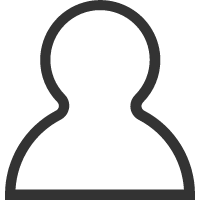
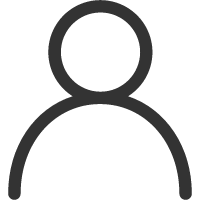
feat: 广场页顶栏城市+排序、活动卡片布局优化、参加活动三点菜单整合
- 广场页：城市定位按钮移至顶栏与排序标签合并一行（📍城市 · 最新 · 距离）
- 广场页：移除筛选面板城市栏，入口统一至顶栏
- 广场页：新增最新发布/距离最近排序标签（可切换/取消）
- ActivityCard：发布时间移至标题行右侧（3小时前）
- ActivityCard：距离标签移至DUPR·费用行右端（分割线上方）
- ActivityCard：整合参加活动三点菜单：未开始→退出，进行中→Toast，已结束→删除记录
- tabbar：更换个人图标（profile.png/profile-active.png）

diff --git a/miniprogram/src/pages/index/index.vue b/miniprogram/src/pages/index/index.vue
@@ -26,6 +26,30 @@
             <image class="capsule-filter-icon" src="/static/icons/shaixuan.png" mode="aspectFit" />
           </view>
         </view>
+        <!-- NOTE: 城市按钮 + 排序标签合并一行：左侧城市可点击切换，右侧排序 -->
+        <view class="sort-tabs">
+          <!-- 城市入口 -->
+          <view class="city-btn" @tap="handleCitySelect">
+            <text class="city-btn-icon">📍</text>
+            <text class="city-btn-name">{{ currentCity || '定位中' }}</text>
+          </view>
+          <view class="sort-tab-divider" />
+          <view
+            class="sort-tab"
+            :class="{ 'sort-tab--active': sortOrder === 'latest' }"
+            @tap="setSortOrder('latest')"
+          >
+            <text class="sort-tab-text">最新发布</text>
+          </view>
+          <view class="sort-tab-divider" />
+          <view
+            class="sort-tab"
+            :class="{ 'sort-tab--active': sortOrder === 'distance' }"
+            @tap="setSortOrder('distance')"
+          >
+            <text class="sort-tab-text">距离最近</text>
+          </view>
+        </view>
       </view>
     </view>
 
@@ -41,15 +65,6 @@
         <!-- 顶部把手 -->
         <view class="filter-sheet-handle" />
 
-        <!-- 城市切换：显示当前城市，点击跳转选择页 -->
-        <view class="filter-section filter-section--city">
-          <text class="filter-section-title">当前城市</text>
-          <view class="filter-city-row" @tap="handleCitySelectFromFilter">
-            <text class="filter-city-icon">📍</text>
-            <text class="filter-city-name">{{ currentCity || '定位中...' }}</text>
-            <text class="filter-city-arrow">❯</text>
-          </view>
-        </view>
 
         <!-- 距离范围 -->
         <view class="filter-section">
@@ -163,6 +178,9 @@ const currentCity = ref('定位中') // 当前城市名称
 const searchKeyword = ref('') // 搜索关键词
 const searchFocused = ref(false) // 搜索框聚焦状态
 const showFilterPanel = ref(false) // 筛选面板显隐
+// NOTE: 排序方式：''=默认（服务器顺序/时间降序），'latest'=最新发布，'distance'=距离最近
+// 初始两个标签均未选中，点击选中，再次点击取消选中恢复默认
+const sortOrder = ref<'latest' | 'distance' | ''>('')
 // NOTE: 当前登录用户 openid，用于判断是否为发起人（显示三点菜单）
 const myOpenId = ref<string | null>(null)
 
@@ -271,14 +289,6 @@ onLoad((options: any) => {
   }
 })
 
-// NOTE: 在筛选面板中切换城市：先关闭面板再跳转城市选择页
-function handleCitySelectFromFilter() {
-  showFilterPanel.value = false
-  // 延迟一帧，避免面板关闭动画与跳转冲突
-  setTimeout(() => {
-    uni.navigateTo({ url: '/pages/city-select/index' })
-  }, 150)
-}
 
 onShow(() => {
   // NOTE: 同步当前用户 openid，用于广场页判断是否为发起人
@@ -535,14 +545,46 @@ function applyFiltersAndSearch() {
     })
   }
 
-  // 5. 按发布时间降序排序
-  filteredList.sort((a, b) => {
-    const timeA = (a as any).createdAt ?? 0
-    const timeB = (b as any).createdAt ?? 0
-    return timeB - timeA
-  })
+  // 5. 排序
+  if (sortOrder.value === 'distance' && location.value?.latitude && location.value?.longitude) {
+    // NOTE: 距离最近：按与用户位置的距离升序；无坐标的活动排在最后
+    const { latitude: uLat, longitude: uLon } = location.value
+    filteredList.sort((a, b) => {
+      const dA = (a.latitude != null && a.longitude != null)
+        ? calculateDistance(uLat, uLon, a.latitude, a.longitude)
+        : Infinity
+      const dB = (b.latitude != null && b.longitude != null)
+        ? calculateDistance(uLat, uLon, b.latitude, b.longitude)
+        : Infinity
+      return dA - dB
+    })
+  } else {
+    // NOTE: 最新发布：按 createdAt 降序
+    filteredList.sort((a, b) => {
+      const timeA = (a as any).createdAt ?? 0
+      const timeB = (b as any).createdAt ?? 0
+      return timeB - timeA
+    })
+  }
 
   activities.value = filteredList
+}
+
+/** 切换排序方式：再次点击同一标签则取消选中，恢复默认顺序 */
+function setSortOrder(order: 'latest' | 'distance') {
+  // NOTE: 再次点击已选中的标签 → 取消选中，恢复默认
+  if (sortOrder.value === order) {
+    sortOrder.value = ''
+    applyFiltersAndSearch()
+    return
+  }
+  // NOTE: 距离排序需要用户位置，若无定位给出友好提示
+  if (order === 'distance' && !location.value?.latitude) {
+    uni.showToast({ title: '获取位置中，请稍候', icon: 'none' })
+    return
+  }
+  sortOrder.value = order
+  applyFiltersAndSearch()
 }
 
 // 搜索输入处理
@@ -857,6 +899,77 @@ onShareTimeline(() => {
 .header-content {
   padding: $ios-spacing-md $ios-spacing-lg;
   padding-top: calc(#{$ios-spacing-md} + env(safe-area-inset-top));
+}
+
+// NOTE: 排序切换标签行：搜索栏下方，左对齐两个 tab
+.sort-tabs {
+  display: flex;
+  align-items: center;
+  margin-top: 10px;
+  gap: 0;
+}
+
+.sort-tab {
+  padding: 4px 0;
+  position: relative;
+  cursor: pointer;
+
+  &--active .sort-tab-text {
+    color: $ios-blue;
+    font-weight: $ios-font-weight-semibold;
+  }
+
+  // NOTE: 选中态下划线
+  &--active::after {
+    content: '';
+    position: absolute;
+    bottom: 0;
+    left: 0;
+    right: 0;
+    height: 2px;
+    background: $ios-blue;
+    border-radius: 1px;
+  }
+}
+
+.sort-tab-text {
+  font-size: 13px;
+  color: $ios-text-secondary;
+  line-height: 1.4;
+}
+
+// 两个 tab 中间竖线分隔
+.sort-tab-divider {
+  width: 1px;
+  height: 12px;
+  background: $ios-separator;
+  margin: 0 12px;
+  flex-shrink: 0;
+}
+
+// NOTE: 城市按钮：左侧定位图标 + 城市名 + 隐式箭头，与排序标签视觉统一
+.city-btn {
+  display: flex;
+  align-items: center;
+  gap: 2px;
+  flex-shrink: 0;
+  cursor: pointer;
+  &:active { opacity: 0.6; }
+}
+
+.city-btn-icon {
+  font-size: 12px;
+  line-height: 1;
+}
+
+.city-btn-name {
+  font-size: 13px;
+  color: $ios-text-secondary;
+  line-height: 1.4;
+  max-width: 60px;
+  overflow: hidden;
+  text-overflow: ellipsis;
+  white-space: nowrap;
 }
 
 // 三段式一体胶囊（全宽）

diff --git a/miniprogram/src/components/ActivityCard.vue b/miniprogram/src/components/ActivityCard.vue
@@ -21,11 +21,11 @@
 
       <!-- 活动信息块（右） -->
       <view class="card-info-block">
-        <!-- 标题（标题文字 + 右侧距离标签） -->
+        <!-- 标题（标题文字 + 右侧发布时间） -->
         <view class="card-title-row">
           <text class="card-title">{{ activity.title }}</text>
-          <!-- NOTE: 仅用户已授权位置且活动有坐标时显示距离 -->
-          <text v-if="props.distanceKm != null" class="card-distance-badge">📍 {{ props.distanceKm }}km</text>
+          <!-- NOTE: 发布时间置于标题右侧，低视觉权重 -->
+          <text v-if="publishedAgo" class="card-published-badge">{{ publishedAgo }}</text>
         </view>
 
         <!-- 时间 + 地点行 -->
@@ -57,6 +57,8 @@
             <image class="info-icon-img" src="/static/icons/feiyongdanju.png" mode="aspectFit" />
             <text class="info-text">{{ feeText }}</text>
           </view>
+          <!-- NOTE: 距离标签置于信息块右下角（分割线上方），与报名决策场景更贴近 -->
+          <text v-if="props.distanceKm != null" class="card-distance-badge">📍 {{ props.distanceKm }}km</text>
         </view>
       </view>
 
@@ -175,18 +177,24 @@ const emit = defineEmits<{
   leave: [activity: Activity]
 }>()
 
-/** 参加者三点菜单：退出活动 */
+/** 参加者三点菜单 */
 function showJoinedMenu() {
-  // NOTE: 已结束：超过结束时间（或无 endTime 时超过开始时间1分钟）
-  if (isEnded.value) {
-    uni.showToast({ title: '活动已结束，无法退出', icon: 'none' })
-    return
-  }
-  // NOTE: 进行中：已过开始时间但未超过结束时间
+  // NOTE: 进行中：活动正在发生，参与记录对发起人可见，不允许任何操作
   if (isActivityInProgress(props.activity)) {
-    uni.showToast({ title: '活动正在进行中，无法退出', icon: 'none' })
+    uni.showToast({ title: '活动正在进行中，无法操作', icon: 'none' })
     return
   }
+  // NOTE: 已结束：不能撤回报名，但允许用户删除该历史记录
+  if (isEnded.value) {
+    uni.showActionSheet({
+      itemList: ['删除记录'],
+      success: (res) => {
+        if (res.tapIndex === 0) emit('leave', props.activity)
+      }
+    })
+    return
+  }
+  // NOTE: 未开始：正常退出报名流程
   uni.showActionSheet({
     itemList: ['退出活动'],
     success: (res) => {
@@ -276,6 +284,24 @@ const duprLevel = computed(() => {
 
 // ── 活动状态 ─────────────────────────────────────────
 const isEnded = computed(() => isActivityEnded(props.activity))
+
+// NOTE: 将 createdAt 时间戳转为相对时间描述，如"3小时前"/"昨天"
+const publishedAgo = computed(() => {
+  const ts = (props.activity as any).createdAt
+  if (!ts) return ''
+  const diff = Date.now() - Number(ts)
+  const minutes = Math.floor(diff / 60000)
+  if (minutes < 1)  return '刚刚'
+  if (minutes < 60) return `${minutes}分钟前`
+  const hours = Math.floor(minutes / 60)
+  if (hours < 24)   return `${hours}小时前`
+  const days = Math.floor(hours / 24)
+  if (days === 1)   return '昨天'
+  if (days < 30)    return `${days}天前`
+  const months = Math.floor(days / 30)
+  if (months < 12)  return `${months}个月前`
+  return `${Math.floor(months / 12)}年前`
+})
 
 // NOTE: 根据活动类型计算可报名名额（不含发起人）
 const availableSlots = computed(() => {
@@ -460,6 +486,16 @@ async function handleJoinClick() {
   line-height: 1.2;
 }
 
+// NOTE: 发布时间，昵称下方，极小灰字，低视觉权重
+.host-published-at {
+  font-size: 9px;
+  color: $ios-text-tertiary;
+  text-align: center;
+  max-width: 56px;
+  line-height: 1.2;
+  white-space: nowrap;
+}
+
 .host-avatar-img {
   width: 60px;
   height: 60px;
@@ -521,11 +557,21 @@ async function handleJoinClick() {
   overflow: hidden;
 }
 
-// NOTE: 距离小标签，灰色小字，flex-shrink:0 防止被标题压缩
+// NOTE: 距离标签（位于 DUPR·人数·费用行右端，分割线上方）
 .card-distance-badge {
   margin-left: auto;
   padding-left: 8px;
   font-size: 12px;
+  color: $ios-text-tertiary;
+  white-space: nowrap;
+  flex-shrink: 0;
+}
+
+// NOTE: 标题行右侧发布时间，极小灰字，低视觉权重
+.card-published-badge {
+  margin-left: auto;
+  padding-left: 8px;
+  font-size: 11px;
   color: $ios-text-tertiary;
   flex-shrink: 0;
   white-space: nowrap;
@@ -648,13 +694,22 @@ async function handleJoinClick() {
   background: rgba(0, 0, 0, 0.06);
 }
 
-// ── 报名区域：头像网格(左) + 报名按钮(右) ──────────────────────────
-// NOTE: 横向布局，头像网格 flex:1 不遮挡头像，按钮固定右侧不增加卡片高度
+// ── 报名区域：头像网格(左) + 报名按钮区域(右) ──────────────────────────
+// NOTE: 横向布局，头像网格 flex:1 不遇挡头像，按钮固定右侧不增加卡片高度
 .card-footer {
   display: flex;
   flex-direction: row;
   align-items: flex-end;
   gap: 8px;
+}
+
+// NOTE: footer 右侧容器：距离标签 + 报名按钮纵向排列，中间间距
+.footer-right {
+  display: flex;
+  flex-direction: column;
+  align-items: flex-end;
+  gap: 4px;
+  flex-shrink: 0;
 }
 
 // 报名人员头像网格：5列自动换行，最多3行（15个）
